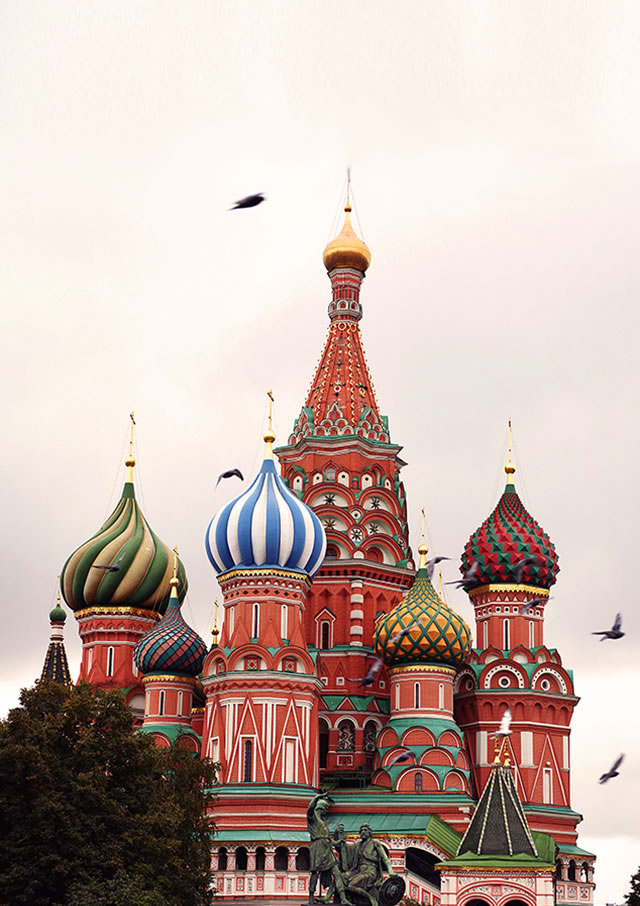
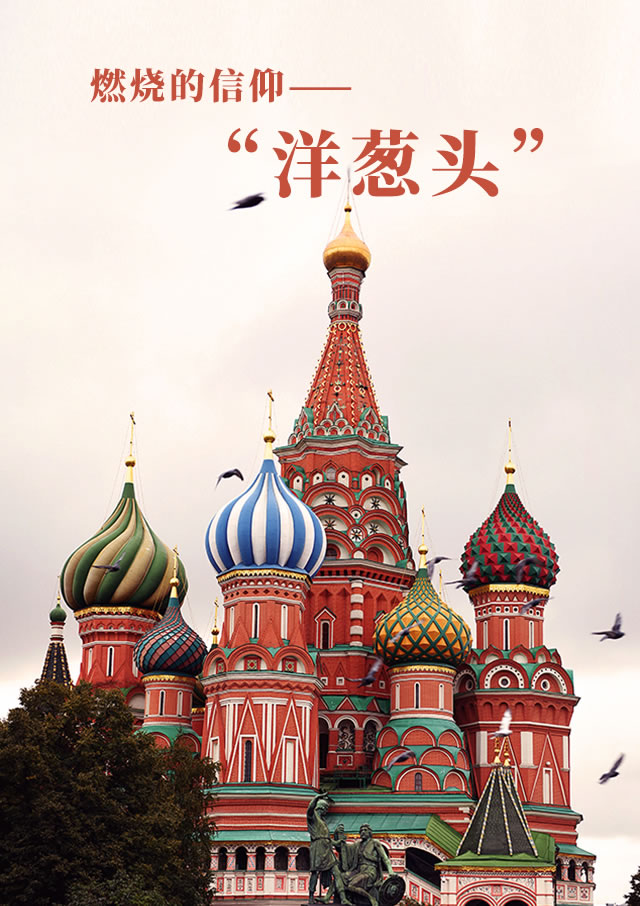
russia v2

Changed region(s): [[0.125, 0.0618, 0.6562, 0.2163], [0.6875, 0.1236, 0.7812, 0.2163], [0.7812, 0.1236, 0.8438, 0.1854]]

diff --git a/index.html b/index.html
@@ -236,9 +236,9 @@
                             <img src="russia/img/hl-3-1.jpg">
                         </div>
                         <div class="hl-txt">
-                        	<p>五光十色造型独特的东正教堂的尖顶是俄罗斯最为特色的建筑标志之一，这些“洋葱头”代表着蜡烛，象征着供奉圣母、圣子的长明蜡烛。</p>
-                        	<p>圣瓦西里升天大教堂以九个形态和颜色各异的尖顶闻名于世，阳光下的“洋葱头”闪着绚丽的金色光芒，描绘着曾经的辉煌；</p>
-													<p>涅瓦河畔的滴血大教堂内部装饰华丽，轮廓优美，镶嵌着繁复精致的图案；在金环小镇，俄罗斯最古老的谢尔盖三圣大修道院是东正教徒们信仰的归宿，来这里体验一次礼拜，与俄罗斯各地来此学习神学的学生交谈，让心灵得到净化……</p>
+                        	<p>五光十色造型独特的<strong>东正教堂</strong>的尖顶是俄罗斯最为特色的建筑标志之一，这些“洋葱头”代表着蜡烛，象征着供奉圣母、圣子的长明蜡烛。</p>
+                        	<p><strong>圣瓦西里升天大教堂</strong>，阳光下的“洋葱头”闪着绚丽的金色光芒，描绘着曾经的辉煌；</p>
+							<p>涅瓦河畔的<strong>滴血大教堂</strong>，轮廓优美，镶嵌着繁复精致的图案；在金环小镇，俄罗斯最古老的<strong>谢尔盖三圣大修道院</strong>，来这里体验一次礼拜，与俄罗斯各地来此学习神学的学生交谈，让心灵得到净化……</p>
                         </div>
                         <div class="hl-slide-box">
                             <div class="swiper-container hl-swiper">
@@ -257,8 +257,8 @@
                         </div>
                         <div class="hl-txt">
                         	<p>在俄国沙皇统治期间，留下了太多灿烂耀眼的遗产，时至今日，人们仍然能从那宏伟而精致的建筑中窥得帝国鼎盛时期的奢靡。</p>
-                        	<p>彼得大帝夏宫经历过辉煌时期的舞会、宫廷庆典，历代俄国沙皇的郊外离宫，也在战争中遭受破坏、甚至被炸毁而后修复。不论岁月如何变迁，宫殿前华丽异常的大瀑布喷泉群依旧闪耀着鎏金的光辉，剔透的水柱如银丝玉珠光彩耀眼……</p>
-													<p>经历多次扩建的叶卡捷琳娜宫，在第三任主人叶卡捷琳娜二世的设想下，则以精巧奢靡的建筑格局，清新柔和的女性色彩风韵，成为了另一引人瞩目的帝国灿烂过往的缩影。其中的琥珀屋更是被誉为世界第八大奇迹，其墙面镶嵌的名贵琥珀和珍奇珠宝，华贵的令人窒息。</p>
+                        	<p><strong>彼得大帝夏宫</strong>、宫廷庆典，历代俄国沙皇的郊外离宫，也在战争中遭受破坏、甚至被炸毁而后修复。不论岁月如何变迁，宫殿前华丽异常的大瀑布喷泉群依旧闪耀着鎏金的光辉，剔透的水柱如银丝玉珠光彩耀眼……</p>
+							<p>经历多次扩建的<strong>叶卡捷琳娜宫</strong>在第三任主人叶卡捷琳娜二世的设想下，则以精巧奢靡的建筑格局，清新柔和的女性色彩风韵，成为了另一引人瞩目的帝国灿烂过往的缩影。其中的琥珀屋更是被誉为世界第八大奇迹，其墙面镶嵌的名贵琥珀和珍奇珠宝，华贵的令人窒息。</p>
                         </div>
                         <div class="hl-slide-box">
                             <div class="swiper-container hl-swiper">
@@ -278,9 +278,9 @@
                             <img src="russia/img/hl-5-1.jpg">
                         </div>
                         <div class="hl-txt">
-                        	<p>昔日的沙皇皇宫冬宫如今又被称为国立艾尔米塔什博物馆，与巴黎的卢浮宫、伦敦的大英博物馆、纽约的大都会艺术博物馆并称世界四大博物馆。</p>
-                        	<p>作为十月革命的见证，冬宫饱经风霜，在这里人们不光能瞻仰到俄罗斯新古典主义建筑最伟大的纪念，还能入内一睹曾经是帝王贵族私人珍藏的各类艺术品：从古埃及、巴比伦、中国等古国文物，到西欧文艺复兴时期艺术珍品……品类繁多而地位非凡，让人眼花缭乱。</p>
-												</div>
+                        	<p>昔日的沙皇皇宫<strong>冬宫</strong>，与巴黎的卢浮宫、伦敦的大英博物馆、纽约的大都会艺术博物馆并称世界四大博物馆。</p>
+                        	<p>作为十月革命的见证，<strong>冬宫</strong>饱经风霜，在这里人们不光能瞻仰到俄罗斯新古典主义建筑最伟大的纪念，还能入内一睹曾经是帝王贵族私人珍藏的各类艺术品：从古埃及、巴比伦、中国等古国文物，到西欧文艺复兴时期艺术珍品……品类繁多而地位非凡，让人眼花缭乱。</p>
+						</div>
                         <div class="hl-slide-box">
                             <div class="swiper-container hl-swiper">
                                 <div class="swiper-wrapper">
@@ -297,8 +297,8 @@
                             <img src="russia/img/hl-6-1.jpg">
                         </div>
                         <div class="hl-txt">
-                        	<p>在俄罗斯人心中，红场的意义不亚于天安门广场之于中国人。在这里，亲自走过俄罗斯举行各种大型国家庆典和阅兵活动的中心场地，感受战斗民族百年来的精神世界和昔日的峥嵘岁月。</p>
-                        	<p>红场正中是克里姆林宫的东墙，作为红场最主要的建筑也是俄罗斯最富盛名的历史丰碑，克里姆林宫从12世纪初建起，就与俄罗斯几乎所有重大的历史政治事件相关联起来。如今它与红场一起，被列入世界遗产名录，继续见证着这个国家的文明延续。</p>
+                        	<p>在俄罗斯人心中，<strong>红场</strong>的意义不亚于天安门广场之于中国人。在这里，亲自走过俄罗斯举行各种大型国家庆典和阅兵活动的中心场地，感受战斗民族百年来的精神世界和昔日的峥嵘岁月。</p>
+                        	<p>红场正中是<strong>克里姆林宫</strong>，作为红场最主要的建筑也是俄罗斯最富盛名的历史丰碑，克里姆林宫从12世纪初建起，就与俄罗斯几乎所有重大的历史政治事件相关联起来。如今它与红场一起，被列入世界遗产名录，继续见证着这个国家的文明延续。</p>
                         </div>
                         <div class="hl-slide-box">
                             <div class="swiper-container hl-swiper">
@@ -422,7 +422,7 @@
                     <div class="dpl-price-item">
                         <h4>参考报价</h4>
                         <div class="dpl-price-cont">
-                            <p><span class="pr1"><i>8.9</i>万起/人</span><span class="pr2">该价格为6人定制参考价<br>最终价格以实际出行人数为准</span></p>
+                            <p><span class="pr1"><i>2.8</i>万起/人</span><span class="pr2">该价格为2人定制参考价<br>最终价格以实际出行人数为准</span></p>
                         </div>
                     </div>
                     <div class="dpl-price-item">
